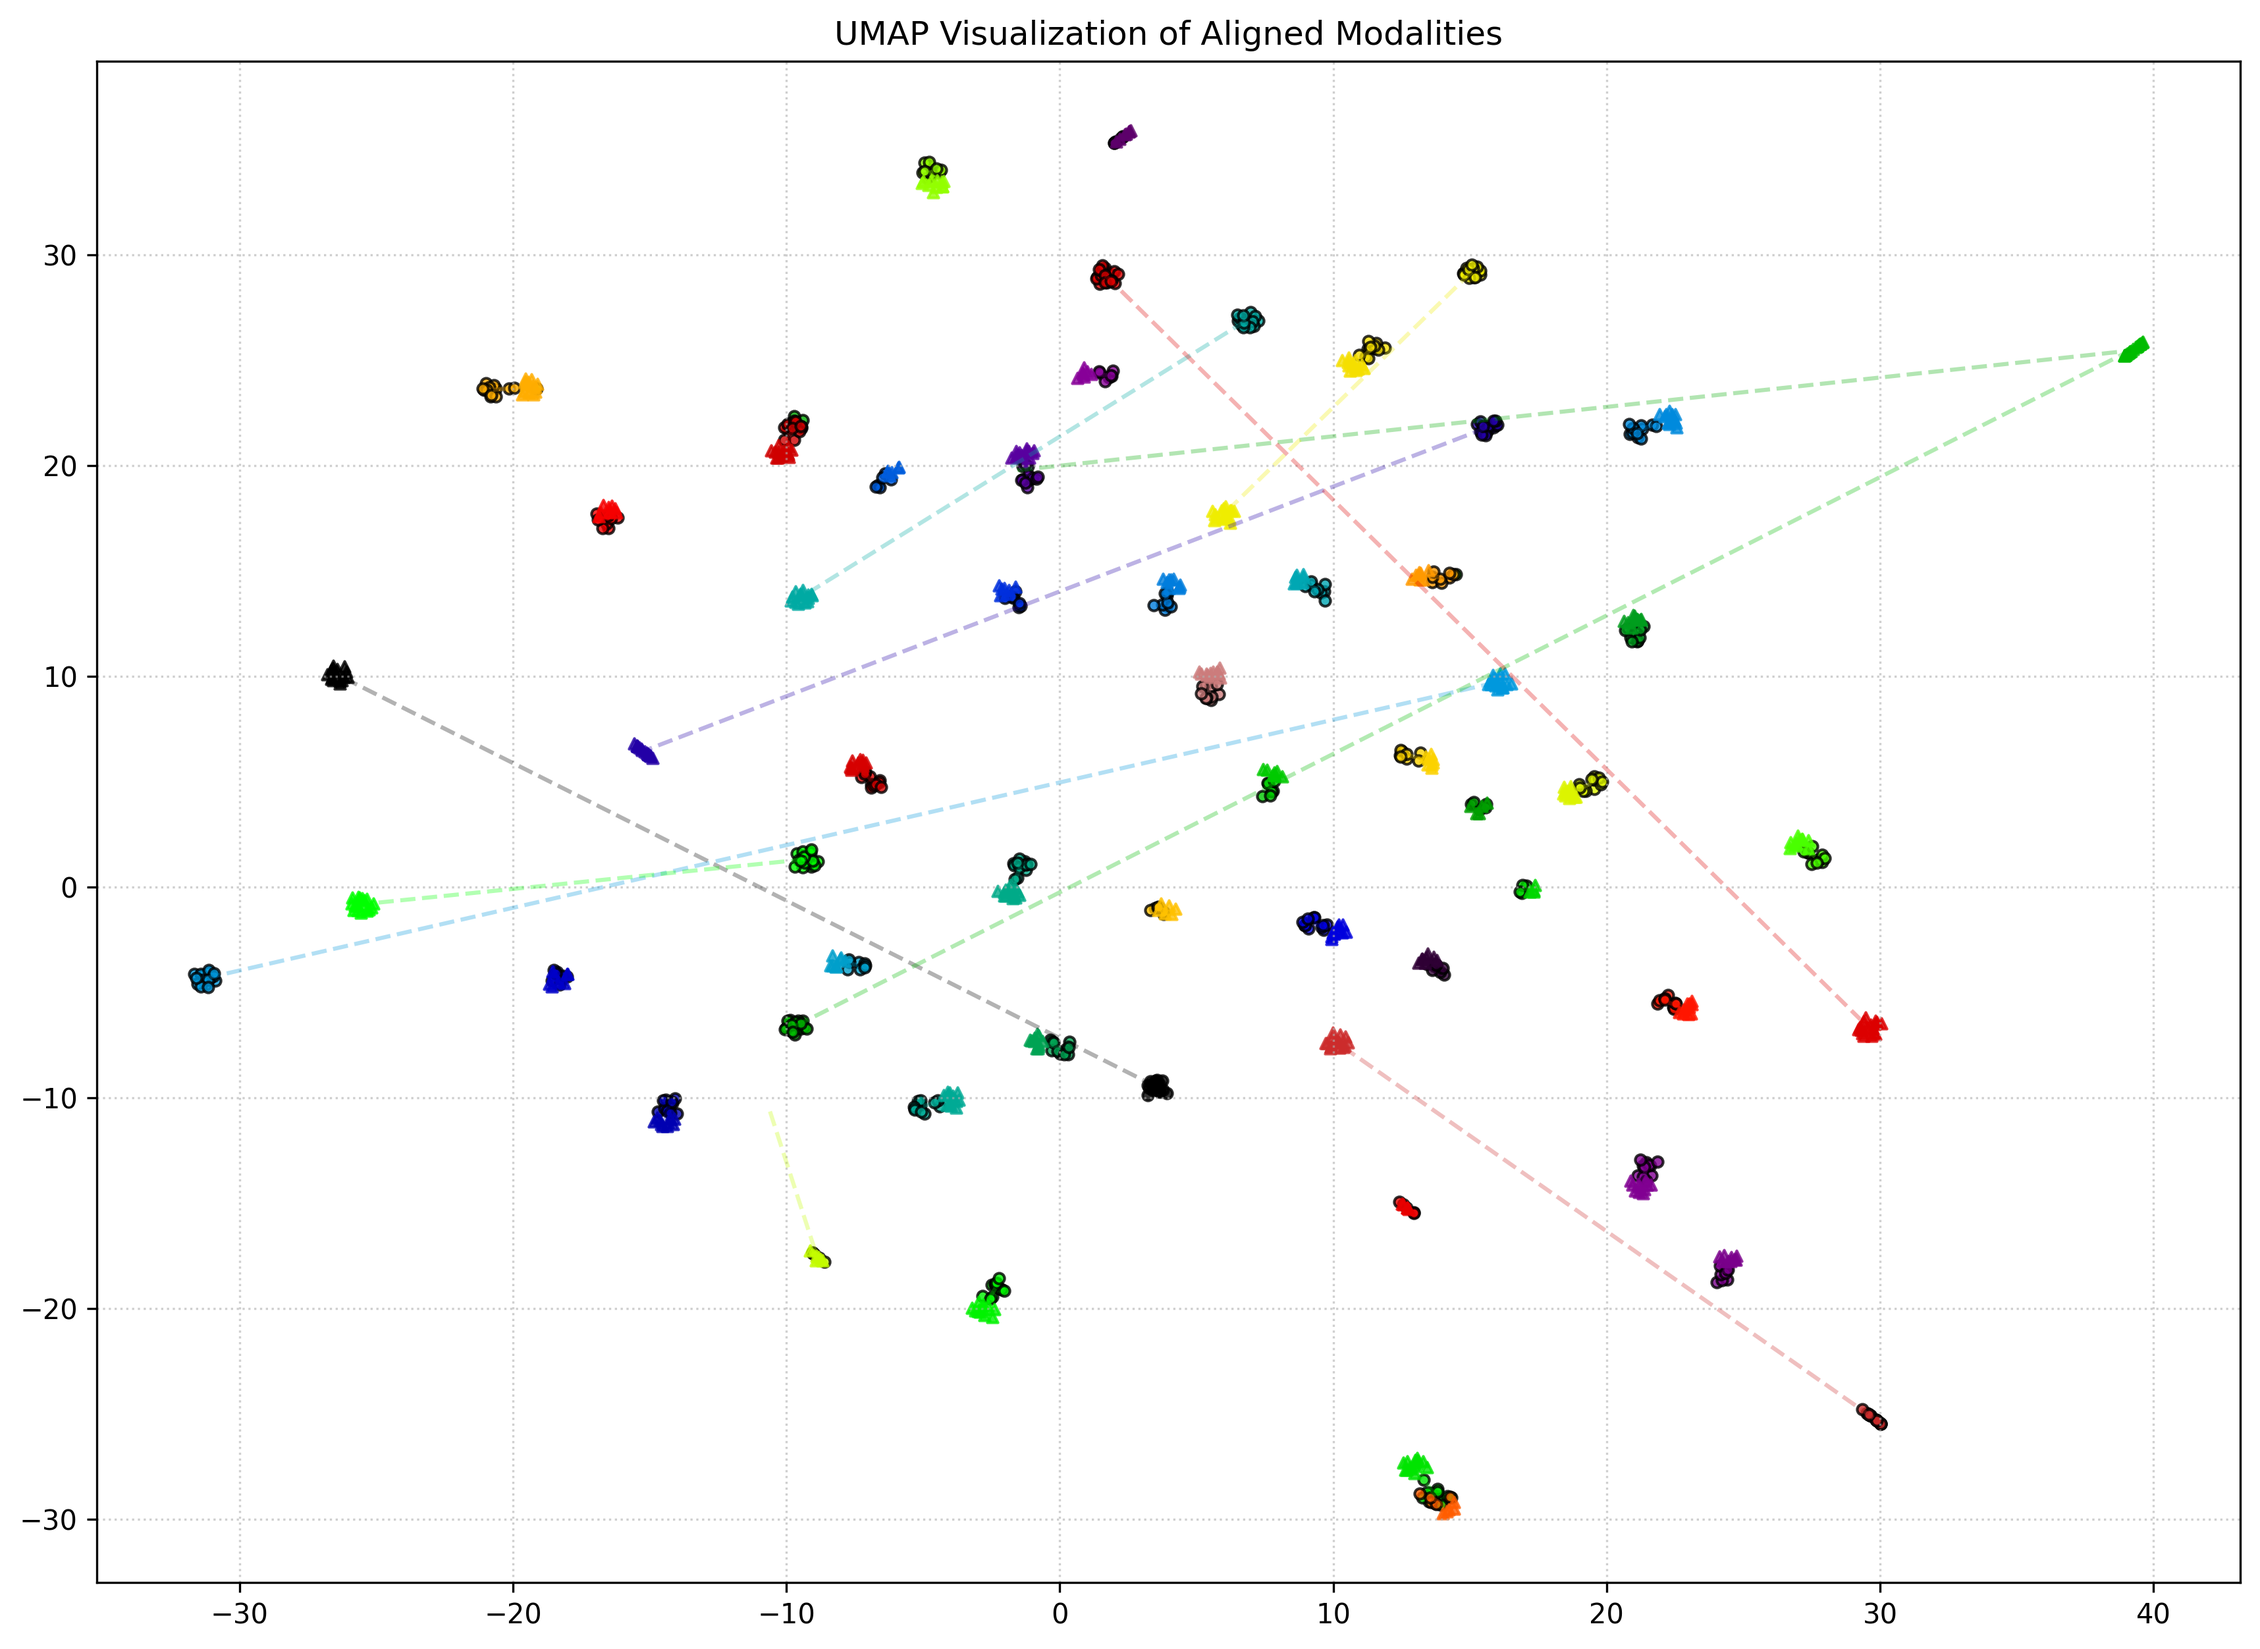
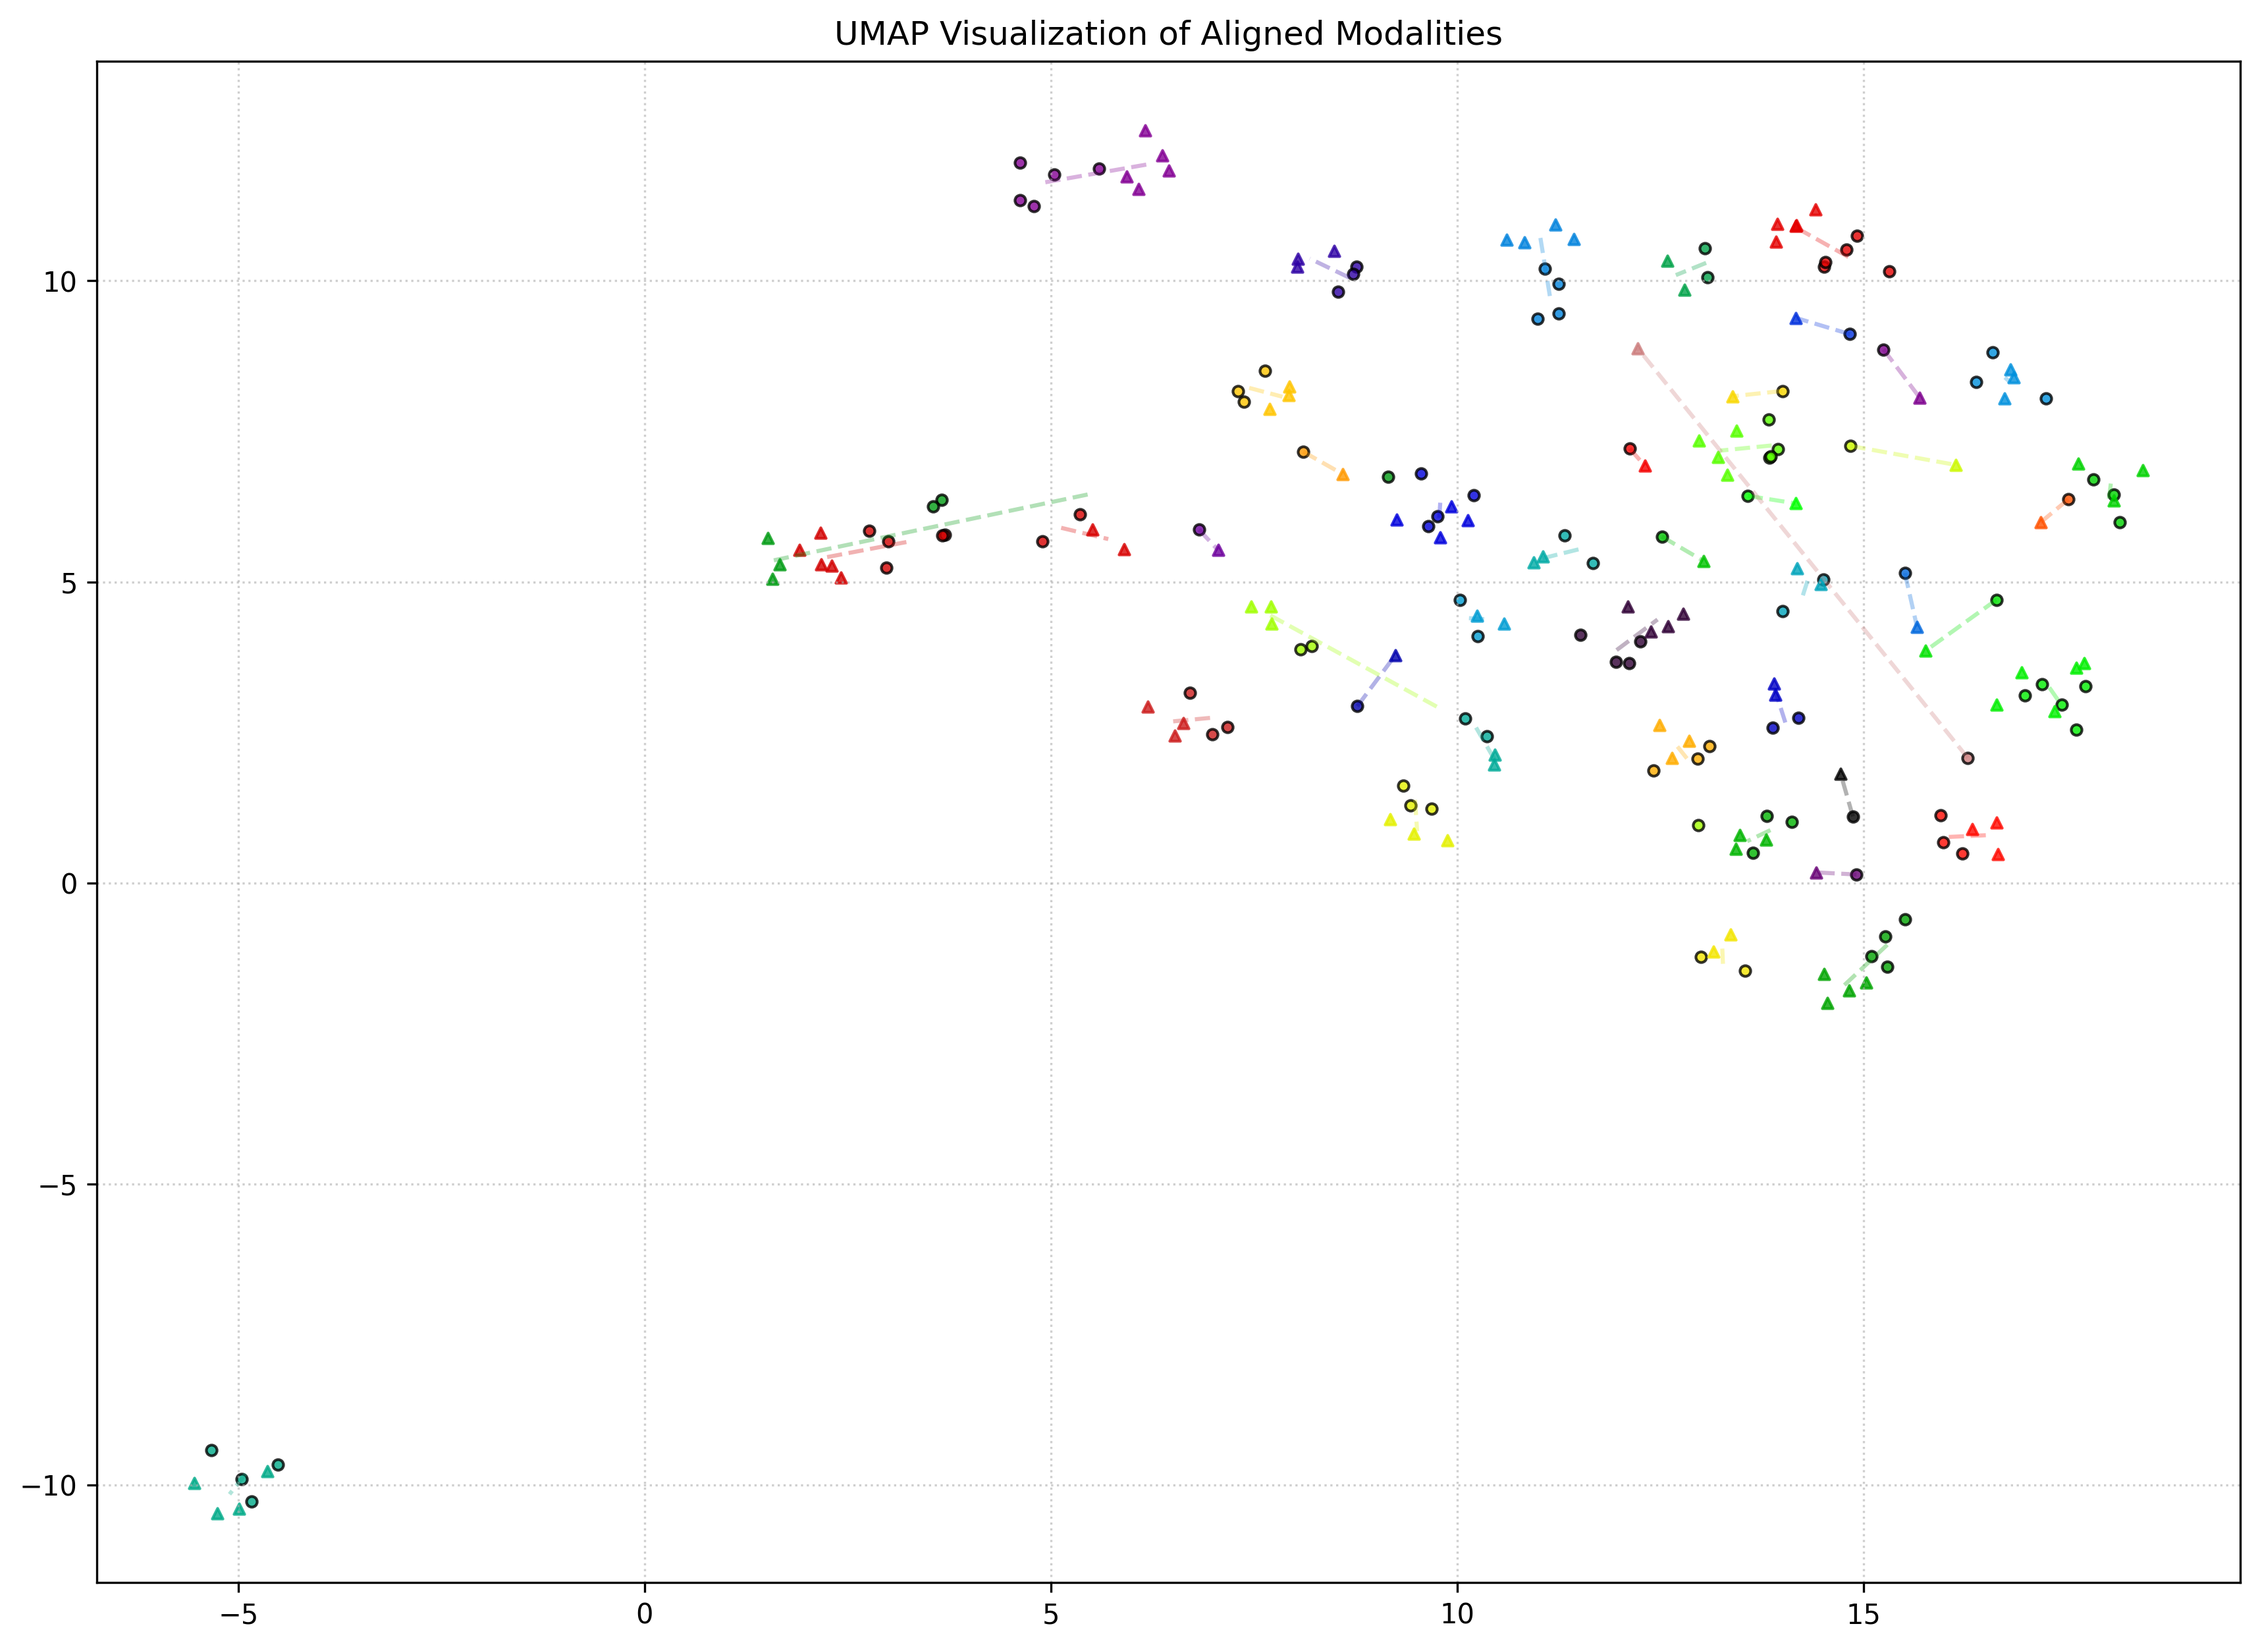
fixed bug where i was testing on the training data split, instead of the testing data split, achieved a 99.05% accuracy on the 'unseen' data

diff --git a/t_sne.py b/t_sne.py
@@ -15,7 +15,13 @@ def visualize_tsne():
     print("Loading Data...")
 
     dataset = EmbeddingDataset(TEST_DIR)
-    loader = DataLoader(dataset, batch_size = 256, shuffle = True)
+
+    train_size = int(0.8 * len(dataset))   
+    test_size = len(dataset) - train_size
+    generator = torch.Generator().manual_seed(42)
+    _, test_dataset = torch.utils.data.random_split(dataset, [train_size, test_size], generator=generator)
+
+    loader = DataLoader(test_dataset, batch_size = 256, shuffle = True)
 
     face_translator = ModalityTranslator(input_dim = 128, output_dim = 512).to(DEVICE)
     voice_translator = ModalityTranslator(input_dim = 128, output_dim = 512).to(DEVICE)

diff --git a/umap_vis.py b/umap_vis.py
@@ -16,7 +16,13 @@ def visualize_umap():
     print("Loading Data...")
 
     dataset = EmbeddingDataset(TEST_DIR)
-    loader = DataLoader(dataset, batch_size = 256, shuffle = True)
+
+    train_size = int(0.8 * len(dataset))   
+    test_size = len(dataset) - train_size
+    generator = torch.Generator().manual_seed(42)
+    _, test_dataset = torch.utils.data.random_split(dataset, [train_size, test_size], generator=generator)
+
+    loader = DataLoader(test_dataset, batch_size = 256, shuffle = True)
 
     face_translator = ModalityTranslator(input_dim = 128, output_dim = 512).to(DEVICE)
     voice_translator = ModalityTranslator(input_dim = 128, output_dim = 512).to(DEVICE)
